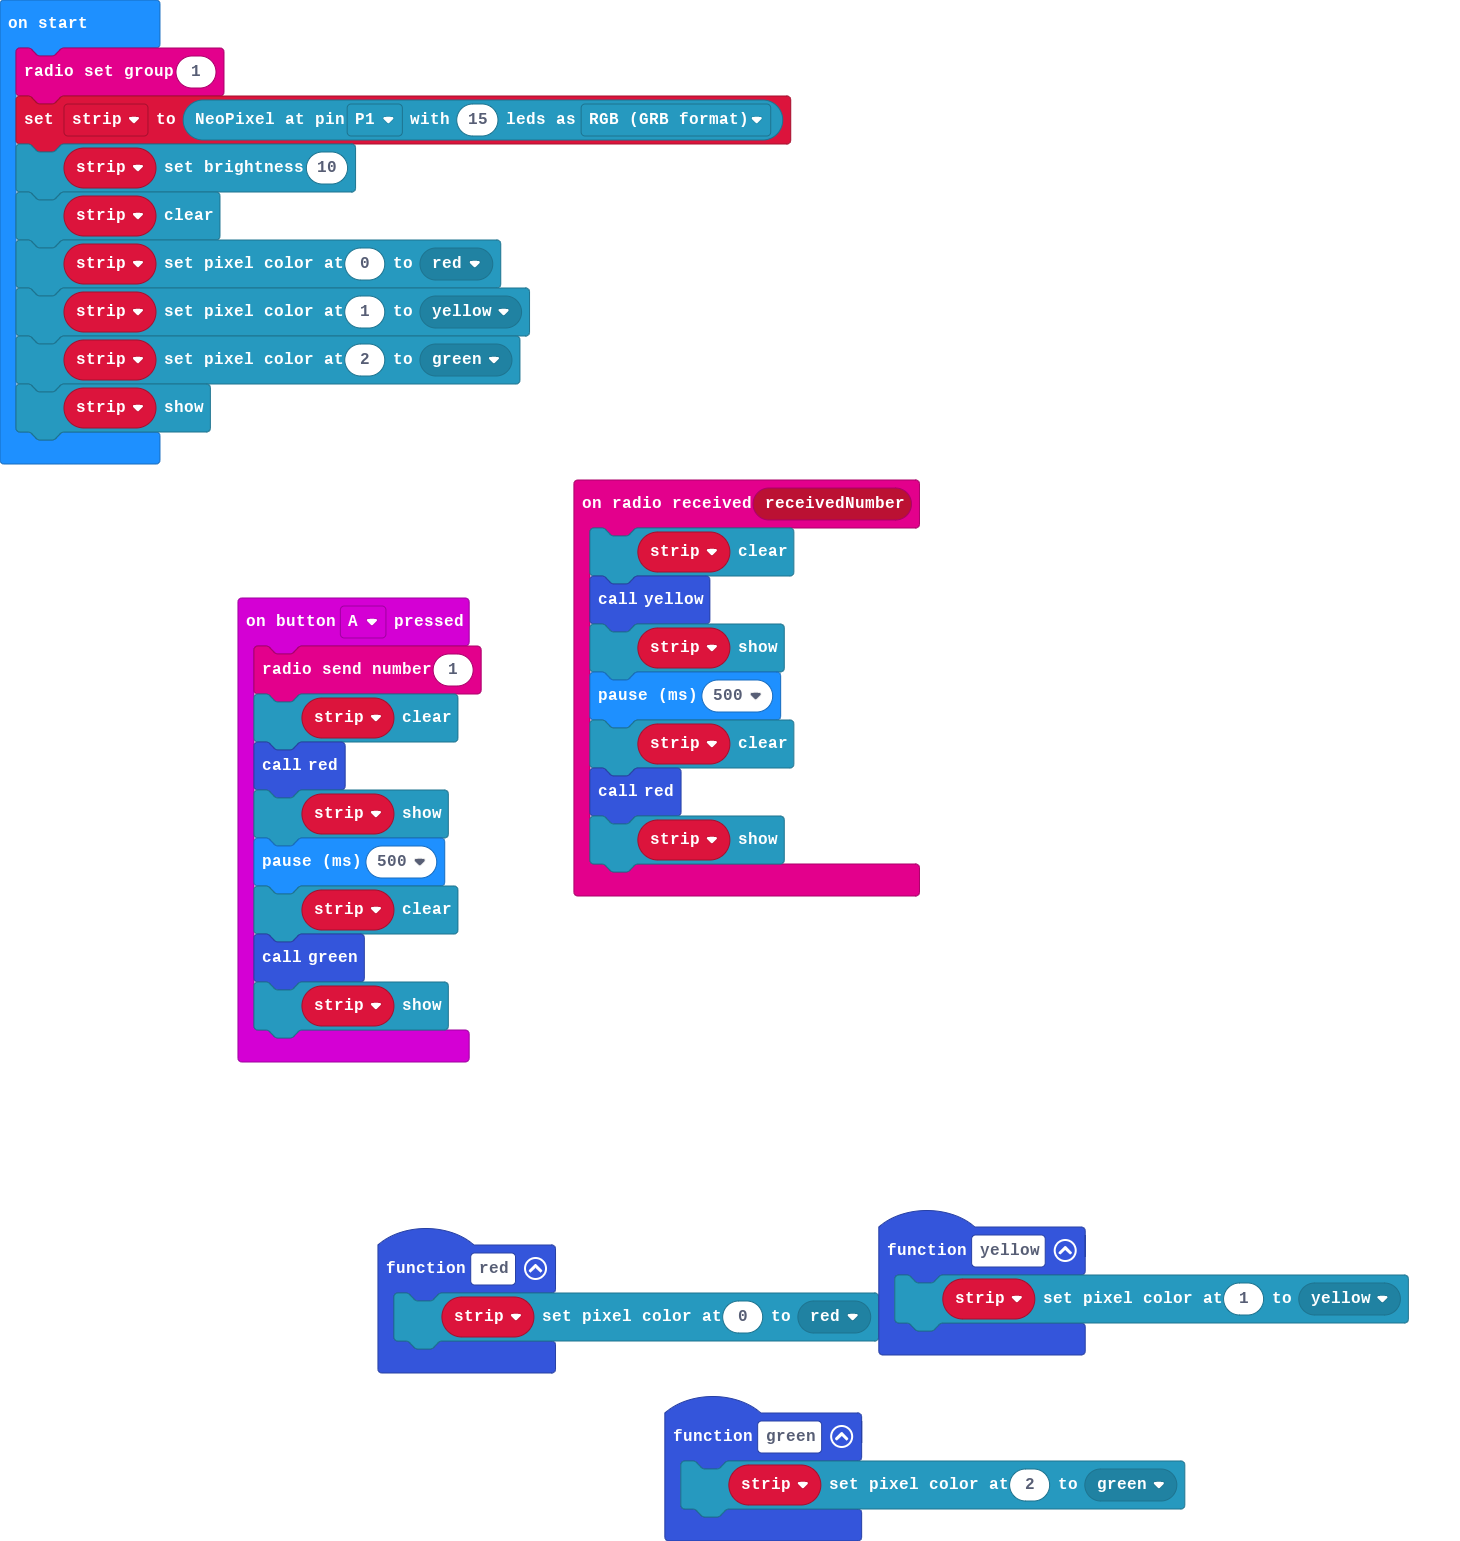
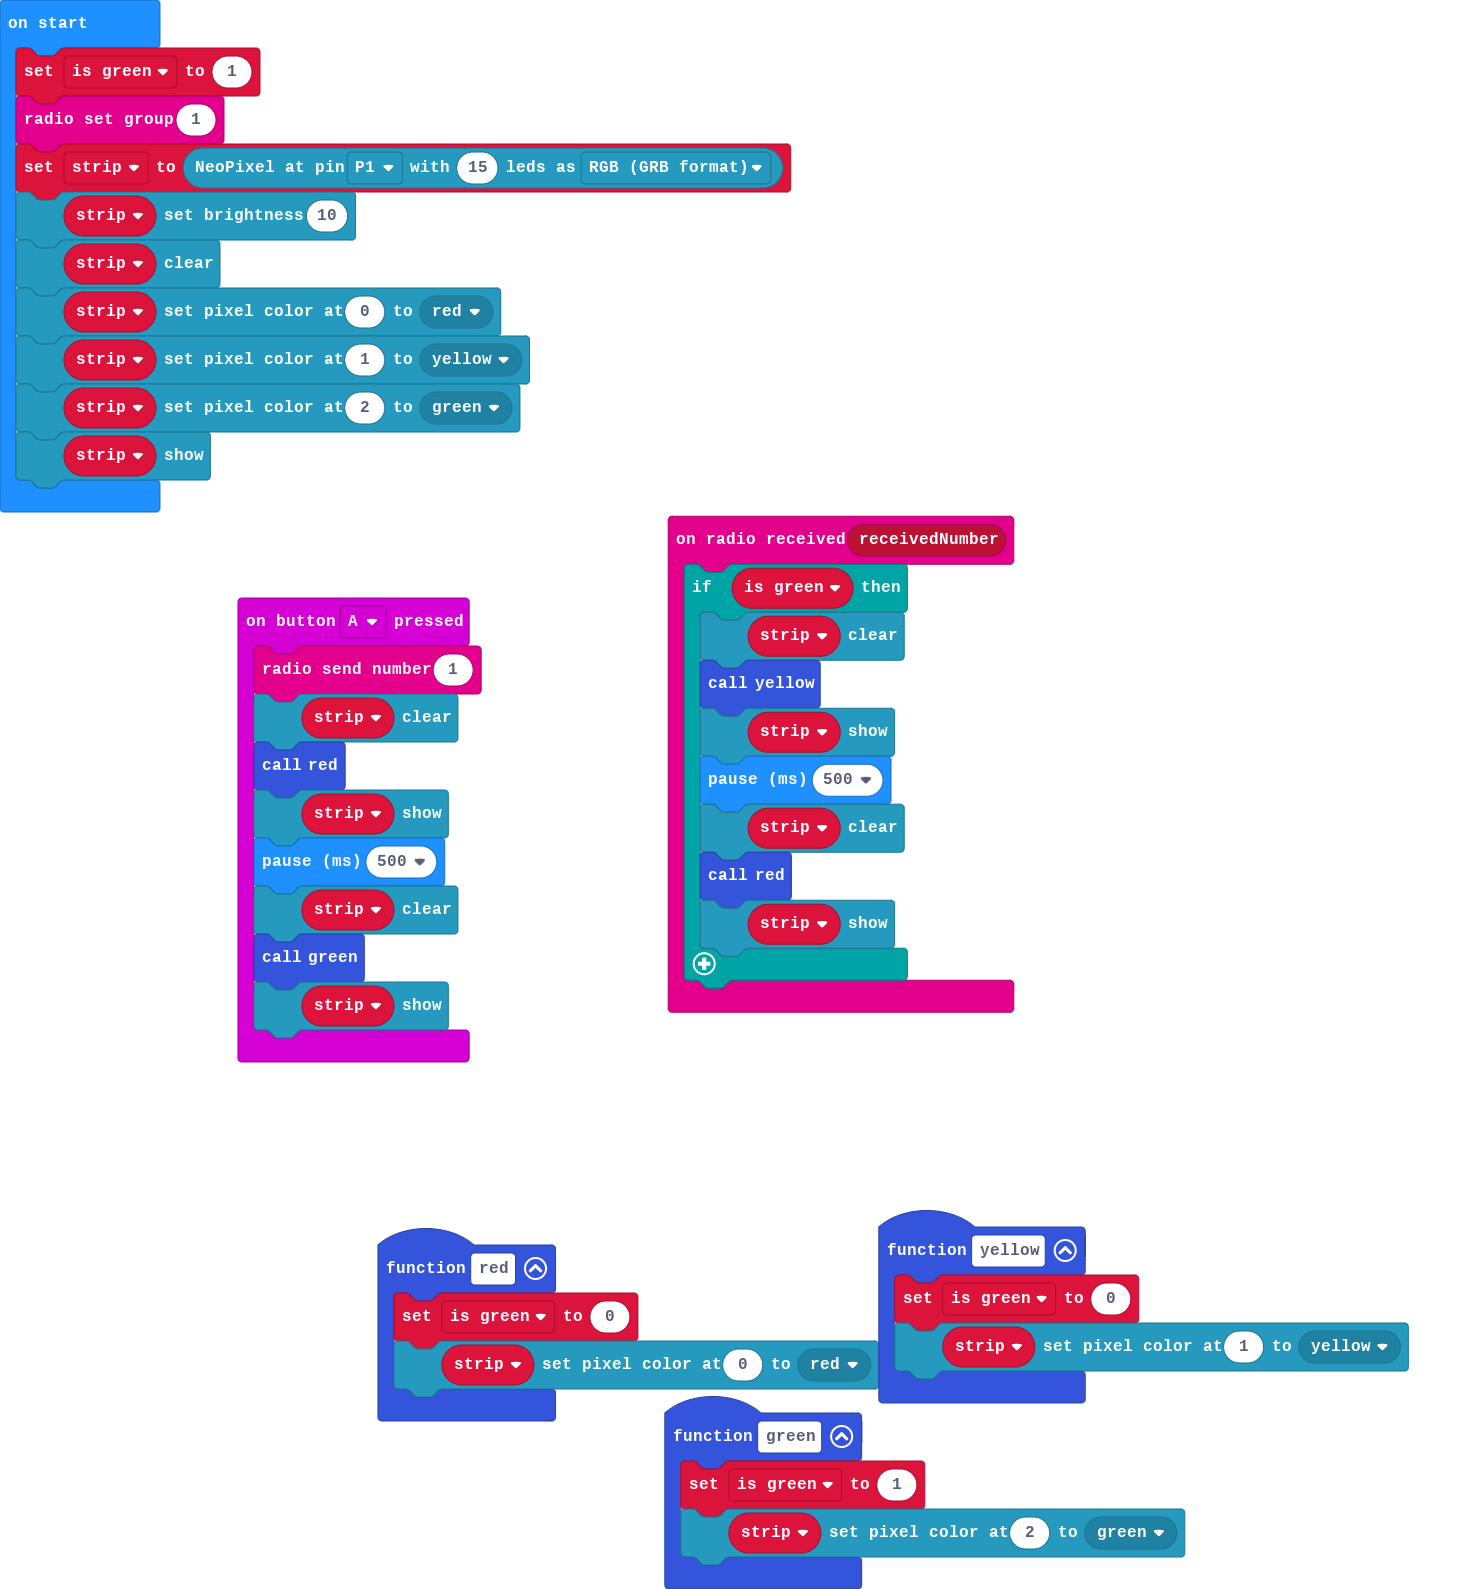
add is green variable

diff --git a/main.ts b/main.ts
@@ -1,13 +1,16 @@
 radio.onReceivedNumber(function (receivedNumber) {
-    strip.clear()
-    yellow()
-    strip.show()
-    basic.pause(500)
-    strip.clear()
-    red()
-    strip.show()
+    if (is_green) {
+        strip.clear()
+        yellow()
+        strip.show()
+        basic.pause(500)
+        strip.clear()
+        red()
+        strip.show()
+    }
 })
 function green () {
+    is_green = 1
     strip.setPixelColor(2, neopixel.colors(NeoPixelColors.Green))
 }
 input.onButtonPressed(Button.A, function () {
@@ -21,12 +24,16 @@ input.onButtonPressed(Button.A, function () {
     strip.show()
 })
 function yellow () {
+    is_green = 0
     strip.setPixelColor(1, neopixel.colors(NeoPixelColors.Yellow))
 }
 function red () {
+    is_green = 0
     strip.setPixelColor(0, neopixel.colors(NeoPixelColors.Red))
 }
 let strip: neopixel.Strip = null
+let is_green = 0
+is_green = 1
 radio.setGroup(1)
 strip = neopixel.create(DigitalPin.P1, 15, NeoPixelMode.RGB)
 strip.setBrightness(10)
